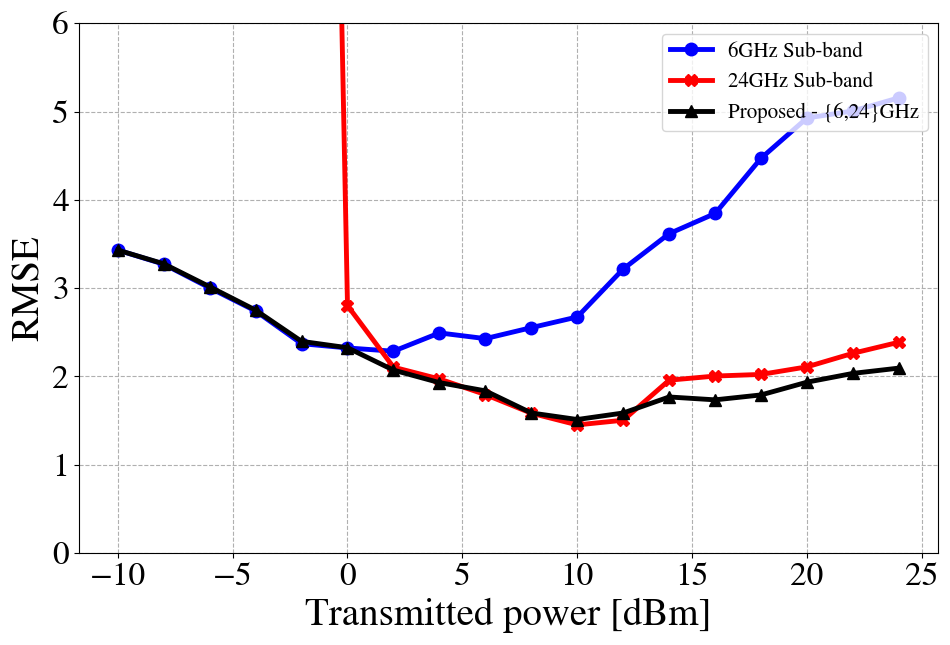
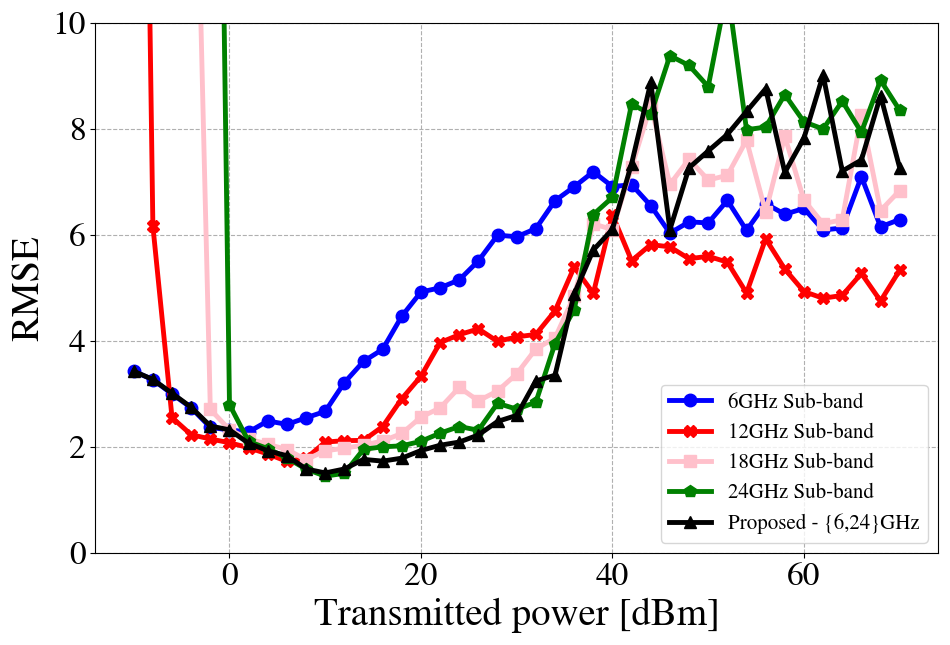
for all points

diff --git a/analyze_results.py b/analyze_results.py
@@ -1,5 +1,6 @@
 import matplotlib as mpl
 import matplotlib.pyplot as plt
+import numpy as np
 import pandas as pd
 
 from dir_definitions import NY_DIR
@@ -18,20 +19,28 @@ mpl.rcParams['mathtext.fontset'] = 'stix'
 mpl.rcParams['font.family'] = 'STIXGeneral'
 
 file_to_label = {0: "6GHz Sub-band",
-                 1: "24GHz Sub-band",
-                 2: "Proposed - {6,24}GHz"}
+                 1: "12GHz Sub-band",
+                 2: "18GHz Sub-band",
+                 3: "24GHz Sub-band",
+                 4: "Proposed - {6,24}GHz"}
 
 color_to_label = {0: "blue",
                   1: "red",
-                  2: "black"}
+                  2: "pink",
+                  3: "green",
+                  4: "black"}
 
 marker_to_label = {0: "o",
                    1: "X",
-                   2: "^"}
+                   2: "s",
+                   3: "p",
+                   4: "^"}
 
 if __name__ == "__main__":
-    input_powers = range(-10, 25, 2)
+    input_powers = range(-10, 71, 2)
     files = ["fc_[6000]_antennas_[6]_bw_[5]_subcarriers_[40]_band_type_SINGLE.csv",
+             "fc_[12000]_antennas_[10]_bw_[10]_subcarriers_[40]_band_type_SINGLE.csv",
+             "fc_[18000]_antennas_[14]_bw_[15]_subcarriers_[40]_band_type_SINGLE.csv",
              "fc_[24000]_antennas_[18]_bw_[20]_subcarriers_[40]_band_type_SINGLE.csv",
              "fc_[6000, 24000]_antennas_[6, 18]_bw_[5, 20]_subcarriers_[40, 40]_band_type_MULTI.csv"]
     mean_rmse_dict = {}
@@ -41,7 +50,7 @@ if __name__ == "__main__":
         for file in files:
             file_path = dir_path + file
             df = pd.read_csv(file_path, index_col=0)
-            mean_rmse = float(df[df.index == 'mean']['RMSE'].item())
+            mean_rmse = np.clip(float(df[df.index == 'mean']['RMSE'].item()),a_min=0,a_max=50)
             mean_error = float(df[df.index == 'mean']['Error > 1m'].item())
             if file not in mean_rmse_dict:
                 mean_rmse_dict[file] = []
@@ -56,7 +65,7 @@ if __name__ == "__main__":
     plt.xlabel('Transmitted power [dBm]')
     plt.ylabel('RMSE')
     plt.grid(which='both', ls='--')
-    plt.legend(loc='upper right', prop={'size': 15})
-    plt.ylim([0, 6])
+    plt.legend(loc='lower right', prop={'size': 15})
+    plt.ylim([0, 10])
     fig.savefig('RMSE.png')
     plt.show()

diff --git a/python_code/plotting/nyu_localization_rmse.py b/python_code/plotting/nyu_localization_rmse.py
@@ -11,11 +11,11 @@ from python_code.main import main
 plt.style.use('dark_background')
 
 if __name__ == "__main__":
-    params1 = {'K':[40],'Nr_x':[6],'Nr_y':[1],'fc':[6000],'BW':[5],'band_type': 'SINGLE'}
-    params2 = {'K':[40],'Nr_x':[18],'Nr_y':[1],'fc':[24000],'BW':[20],'band_type': 'SINGLE'}
-    params3 = {'K':[ 40 ,40],'Nr_x':[ 6 ,18],'Nr_y':[ 1 ,1],'fc':[ 6000 ,24000],
-               'BW':[ 5 ,20],'band_type': 'MULTI'}
-    params_list = [params3,params2,params1]
+    params1 = {'K':[40],'Nr_x':[10],'Nr_y':[1],'fc':[12000],'BW':[10],'band_type': 'SINGLE'}
+    params2 = {'K':[40],'Nr_x':[14],'Nr_y':[1],'fc':[18000],'BW':[15],'band_type': 'SINGLE'}
+    params3 = {'K':[ 40 ,40,40,40],'Nr_x':[ 6 ,10,14,18],'Nr_y':[ 1 ,1,1,1],'fc':[ 6000 ,12000,18000,24000],
+               'BW':[ 5 ,10,15,20],'band_type': 'MULTI'}
+    params_list = [params1,params2,params3]
     for params in params_list:
         for field,value in params.items():
             conf.set_value(field=field,value=value)
@@ -23,7 +23,7 @@ if __name__ == "__main__":
         ue_y_positions = range(0, 506, 5)
         csv_path = os.path.join(RAYTRACING_DIR, str(6000), f"bs{str(1)}.csv")
         csv_loaded = pd.read_csv(csv_path)
-        input_powers = range(16,25,2)
+        input_powers = range(-14,71,2)
         # go over multiple SNRs
         for input_power in input_powers:
             rmse_dict = {}
